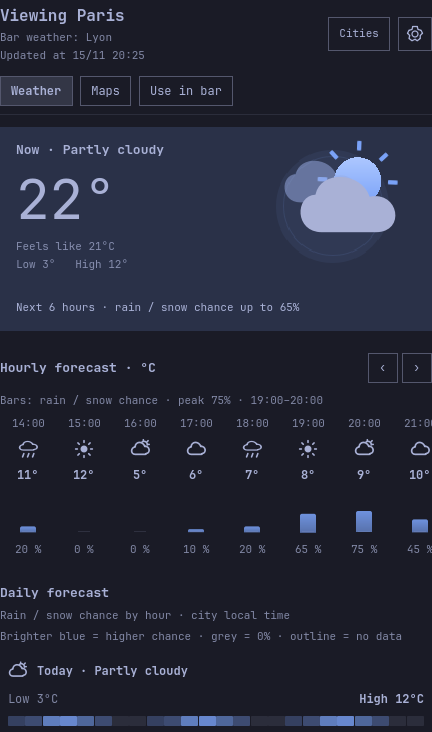
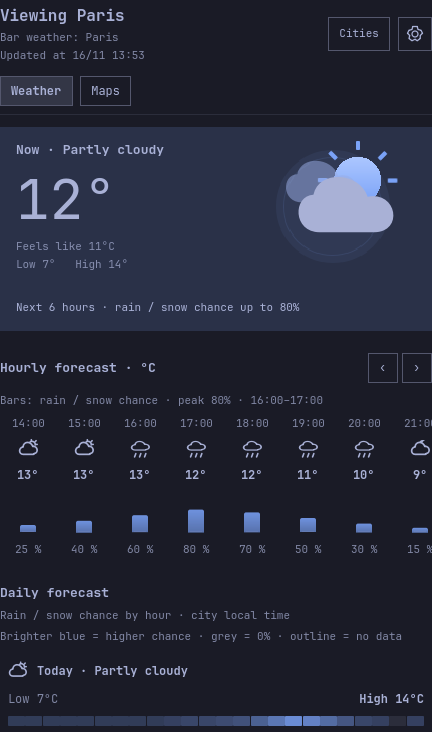
docs: showcase OWEE design approach and screenshot gallery

diff --git a/README.md b/README.md
@@ -1,127 +1,228 @@
-# Omarchy Weather Enhanced Experience (OWEE)
+<div align="center">
 
-A community weather widget for Omarchy Quattro, with a compact bar symbol,
-local-time rain timelines, animated past radar, forecast maps and opt-in
-notifications. Independent of Google and Omarchy; Pixel Weather inspired the
-visual direction. English UI. MIT code, separately licensed data.
+# OWEE
 
-![OWEE weather panel with hourly and daily precipitation forecasts](assets/preview.png)
+**Omarchy Weather Enhanced Experience**
 
-**Current release: 1.3.0.**
-Declared stable by the maintainer on 16 November 2026 after native validation.
-The planned twelve-hour endurance run was interrupted by system shutdown after
-5 h 05 min / 458 cycles. It is not a completed twelve-hour qualification.
-See [release notes](RELEASE_NOTES.md) for the validation scope and release decision.
+Pixel Weather clarity. Omarchy character.
 
-## Requirements
+[![Checks](https://github.com/Plapie690/omarchy-owee/actions/workflows/ci.yml/badge.svg?branch=main)](https://github.com/Plapie690/omarchy-owee/actions/workflows/ci.yml)
+[![License: MIT](https://img.shields.io/badge/license-MIT-9aa5ce?style=flat-square)](LICENSE)
+[![Made for Omarchy](https://img.shields.io/badge/made_for-Omarchy-7aa2f7?style=flat-square)](https://omarchy.org)
 
-Validated baseline: Omarchy 4.5.0, Quickshell 0.3.2 (Arch build
-0.3.2.r7.g2b4501a), Qt 6.12 and Python 3.12 or newer with IANA tzdata.
-No third-party Python package is needed at runtime. Native QA also uses QtTest
-and Pillow (the latter only compares generated screenshots). No root service,
-API key, subscription or extra Quickshell instance is started by the plugin.
+[The idea](#the-idea) · [A closer look](#a-closer-look) · [Install](#install) · [Reading the weather](#reading-the-weather) · [Under the hood](#under-the-hood)
 
-## Install and update
+<img src="assets/screenshots/overview.png" width="360" alt="OWEE overview: current conditions, weather illustration, hourly temperatures and precipitation forecasts">
 
-After the public repository is created under your GitHub account:
+</div>
+
+## The idea
+
+I wanted checking the weather to feel useful and pleasant: a small, expressive
+widget in the bar, and a clear forecast when you open it. The starting point was
+the clarity and playful atmosphere of Pixel Weather, brought into Omarchy's
+colors, typography and desktop controls. Omarchy's native World Clock was also
+a reference for coordinated motion and integration with the shell.
+
+The project grew through everyday questions: *What is it like outside? When
+might it rain? What do these bars actually tell me?* Those questions shaped the
+interface, from the custom weather symbol to the hourly rain timelines.
+
+The design follows a few simple principles:
+
+- **Recognize the weather immediately.** Distinctive weather marks communicate
+  the condition, with the temperature always visible in the bar.
+- **Give each graphic a purpose.** Temperatures have explicit Low/High labels.
+  Daily precipitation uses a 00:00–24:00 timeline so you can locate likely rain
+  periods directly.
+- **Make motion feel connected.** The weather illustration and forecast sections
+  share a short opening progression. Weather movement stays active while viewed;
+  closing the panel stops it. Reduced motion follows Omarchy.
+- **Keep the desktop familiar.** Theme colors, type, spacing and controls follow
+  Omarchy. Optional system formats adapt dates, numbers and temperature units.
+- **Let the view fit the person.** Reorder measurement cards, hide what you do
+  not need, save favorite cities and choose the city shown in the bar.
+- **Be clear about uncertainty.** Forecast, observed radar, cached data and
+  unavailable information have distinct labels. Missing data remains missing.
+
+## A closer look
+
+Captures show the actual plugin interface with illustrative sample data.
+They demonstrate the layout and interactions, rather than a live forecast.
+
+<table>
+  <tr>
+    <td align="center" width="50%">
+      <strong>When might it rain?</strong><br>
+      <sub>Daily forecasts with local-time precipitation timelines.</sub><br><br>
+      <img src="assets/screenshots/daily.png" width="300" alt="Daily weather: low and high temperatures and individual hourly rain-probability bars from midnight to midnight">
+    </td>
+    <td align="center" width="50%">
+      <strong>Measurements with context</strong><br>
+      <sub>Readable values, units and purpose-built visual indicators.</sub><br><br>
+      <img src="assets/screenshots/measurements.png" width="300" alt="Measurement cards for wind, humidity, UV, sunrise and sunset, pressure and visibility">
+    </td>
+  </tr>
+  <tr>
+    <td align="center">
+      <strong>Explore without losing your home weather</strong><br>
+      <sub>The viewed city and the bar's primary city are separate choices.</sub><br><br>
+      <img src="assets/screenshots/cities.png" width="300" alt="City picker with live search, coordinate input, favorites and a primary-city star">
+    </td>
+    <td align="center">
+      <strong>Your cards, your order</strong><br>
+      <sub>Drag to reorder measurements and choose which cards stay visible.</sub><br><br>
+      <img src="assets/screenshots/customize.png" width="300" alt="Card customization with drag handles, visibility controls and measurement cards">
+    </td>
+  </tr>
+</table>
+
+<details>
+<summary><strong>Settings and notification controls</strong></summary>
+<br>
+<p align="center">
+  <img src="assets/screenshots/settings.png" width="360" alt="Settings for automatic refresh, system or manual temperature units, date and number formats, cards and optional notifications">
+</p>
+
+The interface stays in English. Select **System** to follow your desktop's
+measurement system or date and number formats. Manual Celsius/Fahrenheit choices
+remain available. Notifications are opt-in and support thresholds, quiet hours
+and a daily summary.
+
+</details>
+
+## Install
 
 ```sh
 omarchy plugin add https://github.com/Plapie690/omarchy-owee.git --enable
+```
+
+Update:
+
+```sh
 omarchy plugin update owee.weather
 ```
 
-The manifest must be at the repository root. Omarchy updates Git commits on the
-repository default branch, not merely version tags. Only qualified releases
-belong on that branch. For the existing local Pixel Weather installation, use
-`python3 tools/migrate_local.py --apply`; it backs up settings and bar layout
-and prints the exact rollback command. State remains in the legacy-compatible
-`pixel-weather` folders. Installation does not erase favorites or notification
-rules. A locked desktop may require a shell restart after unlocking.
-
-## Reading the weather
-
-- The bar and notifications use the primary city. **Viewing** names the location
-  in the panel; **Use in bar** explicitly changes the primary city.
-- Search updates while typing. Enter a city or decimal **latitude, longitude**,
-  for example `27.7172, 85.3240`. Coordinates bypass the city gazetteer.
-- **Now** shows modelled current conditions and feels-like temperature.
-- **Hourly** gives temperatures and precipitation probabilities. Probability
-  covers the hour ending at the provider timestamp; the peak names its actual
-  interval, not an assumed future hour.
-- **Daily** keeps Low/High as text. Its 00:00–24:00 stripe shows hourly rain/snow
-  chance: brighter blue means higher chance, grey means zero, outline means
-  missing data. Hover, click, or use Tab and arrow keys for the precise interval.
-  Repeated clock hours retain both UTC periods; a skipped hour is identified.
-- Weather, solar events and maps use the selected location's IANA timezone.
-  Polar day/night is shown explicitly, rather than fake midnight solar events.
-- **Measurements** includes optional air and pollen data. Explanations identify
-  units, forecast versus current values, and the European AQI scale. Missing
-  pollen is never interpreted as zero. Drag cards in Settings to reorder them.
-- **Past rain / Radar** is observed historical precipitation. Coverage masks
-  distinguish absent observations from dry conditions. **Upcoming weather** is
-  a model forecast; it is not radar or an official warning.
-- Maps are opt-in and stop when hidden. Web Mercator cannot show the poles;
-  OWEE explains the projection limit without moving the selected location.
-- Notifications are opt-in. Quiet hours and the daily summary follow the desktop
-  clock; weather intervals follow the primary city's timezone. Cached/stale data
-  does not trigger automatic notifications, and Do Not Disturb takes priority.
-
-## Reliability and privacy
-
-Sources are free public services with regional coverage and availability limits.
-OWEE does not promise every field everywhere, uninterrupted APIs, or zero bugs.
-Core weather and optional enrichment have separate workers. Cache fallback is
-labelled, responses and writes are bounded, and malformed optional data does not
-remove valid core weather. A sixty-second manual refresh cooldown limits bursts;
-normal refresh is fifteen minutes and optional enrichment has a one-hour cache.
-
-See [sources and conditions](SOURCES.md), [privacy](PRIVACY.md),
-[release gates](RELEASE.md) and [security reporting](SECURITY.md).
-
-## Validate
-
-```sh
-python3 -B qa/qualify.py                         # offline CI gates
-python3 -B qa/qualify.py --native                # actual Omarchy runtime/UI gates
-python3 -B qa/international.py                  # bounded live global probes
-python3 -B qa/live_maps.py                      # bounded live map contracts
-python3 -B qa/endurance.py --report-dir reports/endurance-1.3.0-rc.3
-python3 -B tools/promote.py                     # checks gates; does not publish
-```
-
-The endurance command runs one isolated fixture process for twelve real hours,
-at least 1,000 cycles, with CPU/RSS telemetry, real elapsed time and source hash.
-A short smoke test cannot qualify as twelve hours. External API calls and real
-notifications are blocked in endurance. Native Wayland loading is a separate
-required gate; offscreen fixtures are not proof of native GPU behavior.
-
-CI runs deterministic tests on hosted runners for each push/PR. Never run
-untrusted PR code on your personal Omarchy session or a privileged self-hosted
-runner. Native qualification uses the trusted reference machine and an isolated
-XDG state/cache; evidence is excluded from the Git repository.
-
-## Remove
+Remove:
 
 ```sh
 omarchy plugin remove owee.weather
 ```
 
-User state and migration backups remain for recovery. See PRIVACY.md for their
-locations. Deleting those directories is a separate explicit action.
+Removing the code retains user preferences, caches and migration backups for
+recovery. Data locations are documented in [PRIVACY.md](PRIVACY.md).
 
-### Native preferences and display formats
+**Requirements:** Omarchy Quattro. Validated baseline: Omarchy 4.5.0,
+Quickshell 0.3.2 (Arch build `0.3.2.r7.g2b4501a`), Qt 6.12 and Python 3.12+
+with IANA tzdata. Optional notifications use `notify-send`.
 
-Simple display preferences (temperature mode, date/number format and automatic
-refresh) are saved in OWEE's native Omarchy widget entry. Existing Celsius or
-Fahrenheit and refresh choices are seeded from the previous settings on first
-load. Favorites, cards, notifications and cached data retain their own storage.
+No API key, account, subscription or third-party Python runtime package is needed.
 
-Temperature mode offers System, Celsius and Fahrenheit. System follows the
-Omarchy format locale's measurement system, including notification temperatures.
-Date and number formats offer English (the existing default) and System. The
-interface remains English. Forecast clocks always describe the selected city,
-including repeated daylight-saving hours; the daily rain axis stays 00:00–24:00.
+<details>
+<summary>Moving from the original local Pixel Weather plugin</summary>
 
-One 220 ms opening progression coordinates the weather illustration and forecast
-sections. Native popup transitions still own opening/closing geometry. Reduced
-motion settles the content immediately, and closing stops the opening clock.
+From a checkout of this repository, run:
+
+```sh
+python3 -B tools/migrate_local.py --apply
+```
+
+The migration backs up settings and bar layout, preserves favorites and
+notification rules, and provides an explicit rollback tool. Legacy-compatible
+state directories keep the name `pixel-weather`. A locked session may require
+an Omarchy shell restart after unlocking.
+
+Existing OWEE installations use the normal update command above.
+
+</details>
+
+## Reading the weather
+
+| View | What it helps you understand |
+| --- | --- |
+| **Bar** | The primary city's condition and temperature at a glance. |
+| **Now** | Modelled current conditions, feels-like temperature and today's Low/High. |
+| **Hourly** | How temperatures and rain/snow probabilities change over the next hours. |
+| **Daily** | Each day's conditions and the times when precipitation may occur. |
+| **Measurements** | Wind, humidity, UV, solar events, pressure, visibility and optional air/pollen data. |
+| **Past rain / Radar** | Recent observed precipitation, with radar coverage information. |
+| **Upcoming weather** | Model forecast maps for precipitation, temperature and clouds. |
+
+**The blue bars represent probability.** In the daily view, brighter blue means
+higher rain/snow chance, grey means zero, and an outline means no hourly data.
+Hover, click, or use Tab and arrow keys to read the precise interval. A provider
+probability covers the hour ending at its timestamp; OWEE labels that interval.
+
+**Times follow the selected city.** Repeated daylight-saving hours retain both
+UTC periods, skipped hours are identified, and polar day/night are explicit.
+The daily rain axis stays 00:00–24:00 even when using system display formats.
+
+**Browsing does not change your bar city.** Search updates as you type; enter a
+city or decimal `latitude, longitude`, such as `27.7172, 85.3240`. Favorites keep
+places close. **Use in bar** makes the viewed city primary for both the bar and
+notifications.
+
+**Coverage is visible.** Radar coverage masks distinguish missing observations
+from dry conditions. Air and pollen vary by region; unavailable values do not
+become zero. Maps are opt-in, stop when hidden and explain projection limits
+near the poles. Forecast maps are model predictions, distinct from radar.
+
+**Notifications stay under your control.** Quiet hours and the daily summary
+follow the desktop clock; weather intervals follow the primary city's timezone.
+Stale data does not trigger automatic alerts. Do Not Disturb takes priority.
+Notifications are informational, not official weather warnings.
+
+## Under the hood
+
+QML and Qt Quick provide the native Omarchy interface. Small Python workers
+handle source requests, normalization, disk storage and notification delivery.
+There is no application server or extra persistent Quickshell instance.
+
+Core weather and optional enrichment load separately. Responses are bounded,
+malformed data is checked before display, and cached forecasts remain available
+with an explicit stale label. Normal refresh is every fifteen minutes; manual
+refresh has a sixty-second cooldown, and optional enrichment has a one-hour cache.
+
+Temperature mode, date/number format and automatic refresh live in the native
+Omarchy widget entry. Favorites, cards, notification settings and cached data
+retain dedicated storage. Existing preferences are preserved during migration.
+
+Public providers have their own terms, regional coverage and availability limits.
+Code is MIT; data and imagery have separate licenses and attribution requirements.
+
+<details>
+<summary><strong>Development and validation</strong></summary>
+
+The Python runtime uses the standard library. Development checks additionally use
+pinned Ruff, mypy and coverage tools. Native UI QA needs QtTest and Pillow.
+
+```sh
+python3 -m venv reports/dev-venv
+reports/dev-venv/bin/python -m pip install -r requirements-dev.txt
+python3 -B qa/qualify.py
+python3 -B qa/qualify.py --native --quality-python reports/dev-venv/bin/python
+```
+
+Live-source checks are separate, bounded probes:
+
+```sh
+python3 -B qa/international.py
+python3 -B qa/live_maps.py
+```
+
+Endurance runs use isolated fixtures, block real API calls and notifications, and
+record elapsed time, repeated interactions, CPU, memory and the tested source hash.
+Native Wayland loading is checked separately. CI runs deterministic tests on
+hosted runners; native checks use the trusted reference desktop.
+
+See [RELEASE.md](RELEASE.md) for the procedure and
+[RELEASE_NOTES.md](RELEASE_NOTES.md) for the actual validation history.
+
+</details>
+
+---
+
+[Sources & data terms](SOURCES.md) · [Privacy](PRIVACY.md) · [Security](SECURITY.md) · [Release notes](RELEASE_NOTES.md) · [MIT license](LICENSE)
+
+An independent community project by Paul. Pixel Weather inspired the visual
+direction; OWEE is not affiliated with Google or the Omarchy team.
